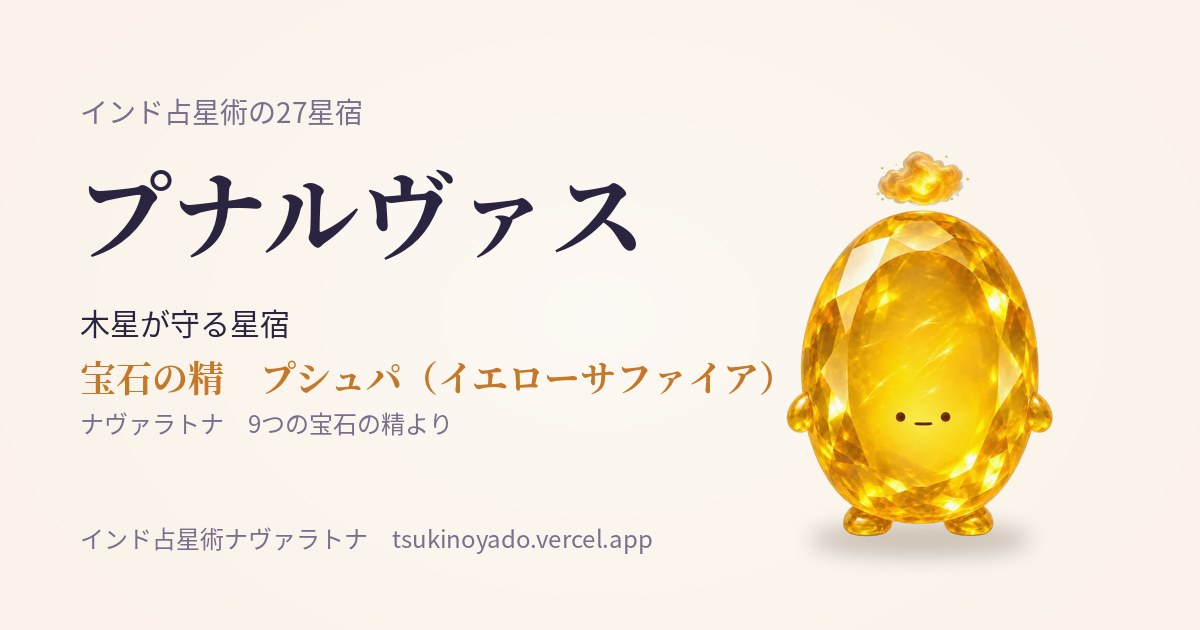
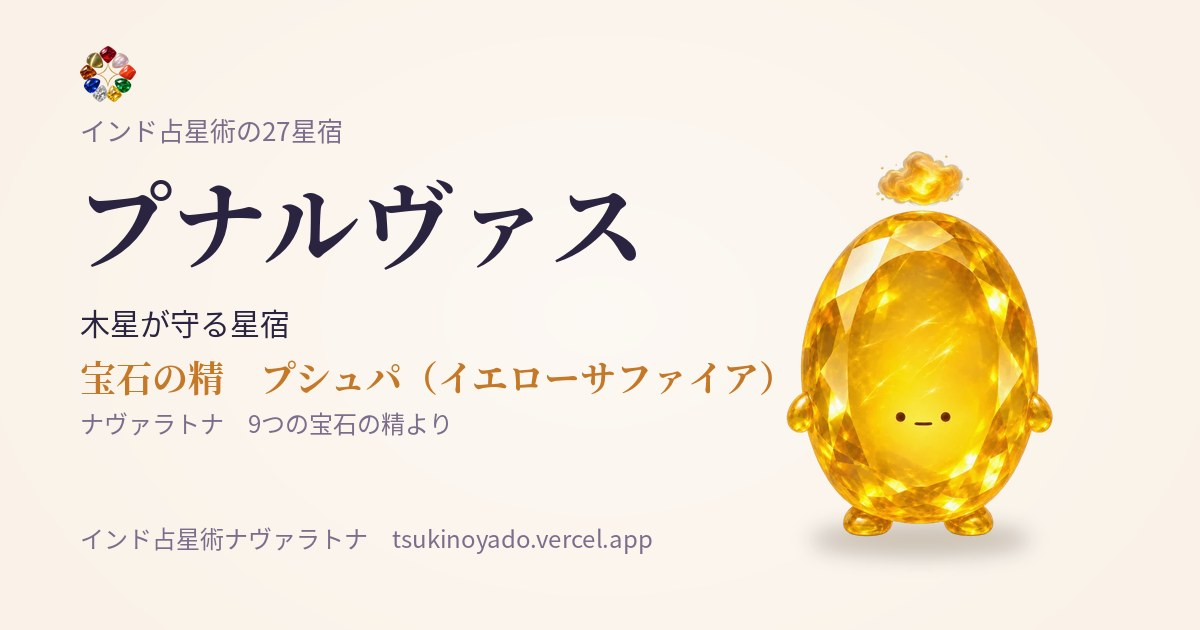
ナヴァラトナのロゴ（9つの宝石の輪）をヘッダー・アイコン・シェア画像に追加
Claude-Session: https://claude.ai/code/session_01CytgqpMCeuamcez5Rq2jrM

Changed region(s): [[0.0617, 0.2714, 0.555, 0.4222], [0.0617, 0.0603, 0.3083, 0.2413]]

diff --git a/src/assets/style.css b/src/assets/style.css
@@ -224,7 +224,7 @@ details.card summary{cursor:pointer}
 .card.seirei{flex-direction:row}
 .sr-line{flex-wrap:wrap;overflow:visible;gap:4px 2px}
 .sr-line a{width:min(18%,96px)}
-.logo{align-items:center;gap:8px}.logo img{width:34px;height:34px;object-fit:contain;filter:drop-shadow(0 2px 4px rgba(0,0,0,.3))}
+.logo{align-items:center;gap:8px}.logo img{width:40px;height:40px;object-fit:contain;filter:drop-shadow(0 2px 3px rgba(43,31,69,.18))}
 .logo .lt{display:flex;flex-direction:column;line-height:1.05;font-size:22px;letter-spacing:.06em}
 .logo .lt small{font-size:10.5px;letter-spacing:.3em;opacity:.75;font-family:var(--f-body);font-weight:600;margin-bottom:2px}
 

diff --git a/tools/og.py b/tools/og.py
@@ -25,9 +25,10 @@ def center(d,y,t,f,fill):
     w=d.textlength(t,font=f);d.text(((1200-w)/2,y),t,font=f,fill=fill)
 # 全体
 im=bg();d=ImageDraw.Draw(im)
-center(d,58,'インド占星術',F(SERIF,34),MUT)
-center(d,100,'ナヴァラトナ',F(SERIF,92),INK)
-center(d,222,'9つの宝石の精と読む、無料占い ─ 27星宿・星図・相性・吉日',F(SANS,26),MUT)
+lg=Image.open(A+'logo.webp').convert('RGBA').resize((96,96),Image.LANCZOS);im.alpha_composite(lg,(552,14))
+center(d,112,'インド占星術',F(SERIF,30),MUT)
+center(d,146,'ナヴァラトナ',F(SERIF,80),INK)
+center(d,250,'9つの宝石の精と読む、無料占い ─ 27星宿・星図・相性・吉日',F(SANS,26),MUT)
 S=140;x0=(1200-(S-12)*8-S)//2
 for i,k in enumerate(ORDER):
     shadow(im,sp(k,S),(x0+i*(S-12),330+(0 if i%2==0 else 30)))
@@ -38,9 +39,10 @@ nak=json.load(open(R+'/content/nak_data.json'))
 for n in nak:
     id=PL[n['lord']];im=bg();d=ImageDraw.Draw(im)
     shadow(im,sp(id,440),(700,110))
-    d.text((80,90),'インド占星術の27星宿',font=F(SANS,28),fill=MUT)
+    lg=Image.open(A+'logo.webp').convert('RGBA').resize((56,56),Image.LANCZOS);im.alpha_composite(lg,(80,46))
+    d.text((80,110),'インド占星術の27星宿',font=F(SANS,26),fill=MUT)
     nm=n['name'];fs=96 if len(nm)<=6 else 76 if len(nm)<=9 else 60
-    d.text((76,140),nm,font=F(SERIF,fs),fill=INK)
+    d.text((76,150),nm,font=F(SERIF,fs),fill=INK)
     d.text((80,300),f"{n['lord']}が守る星宿",font=F(SANS,30),fill=INK)
     a,g=NM[id];d.text((80,350),f"宝石の精　{a}（{g}）",font=F(SERIF,36),fill=ACC)
     d.text((80,405),"ナヴァラトナ　9つの宝石の精より",font=F(SANS,24),fill=MUT)
